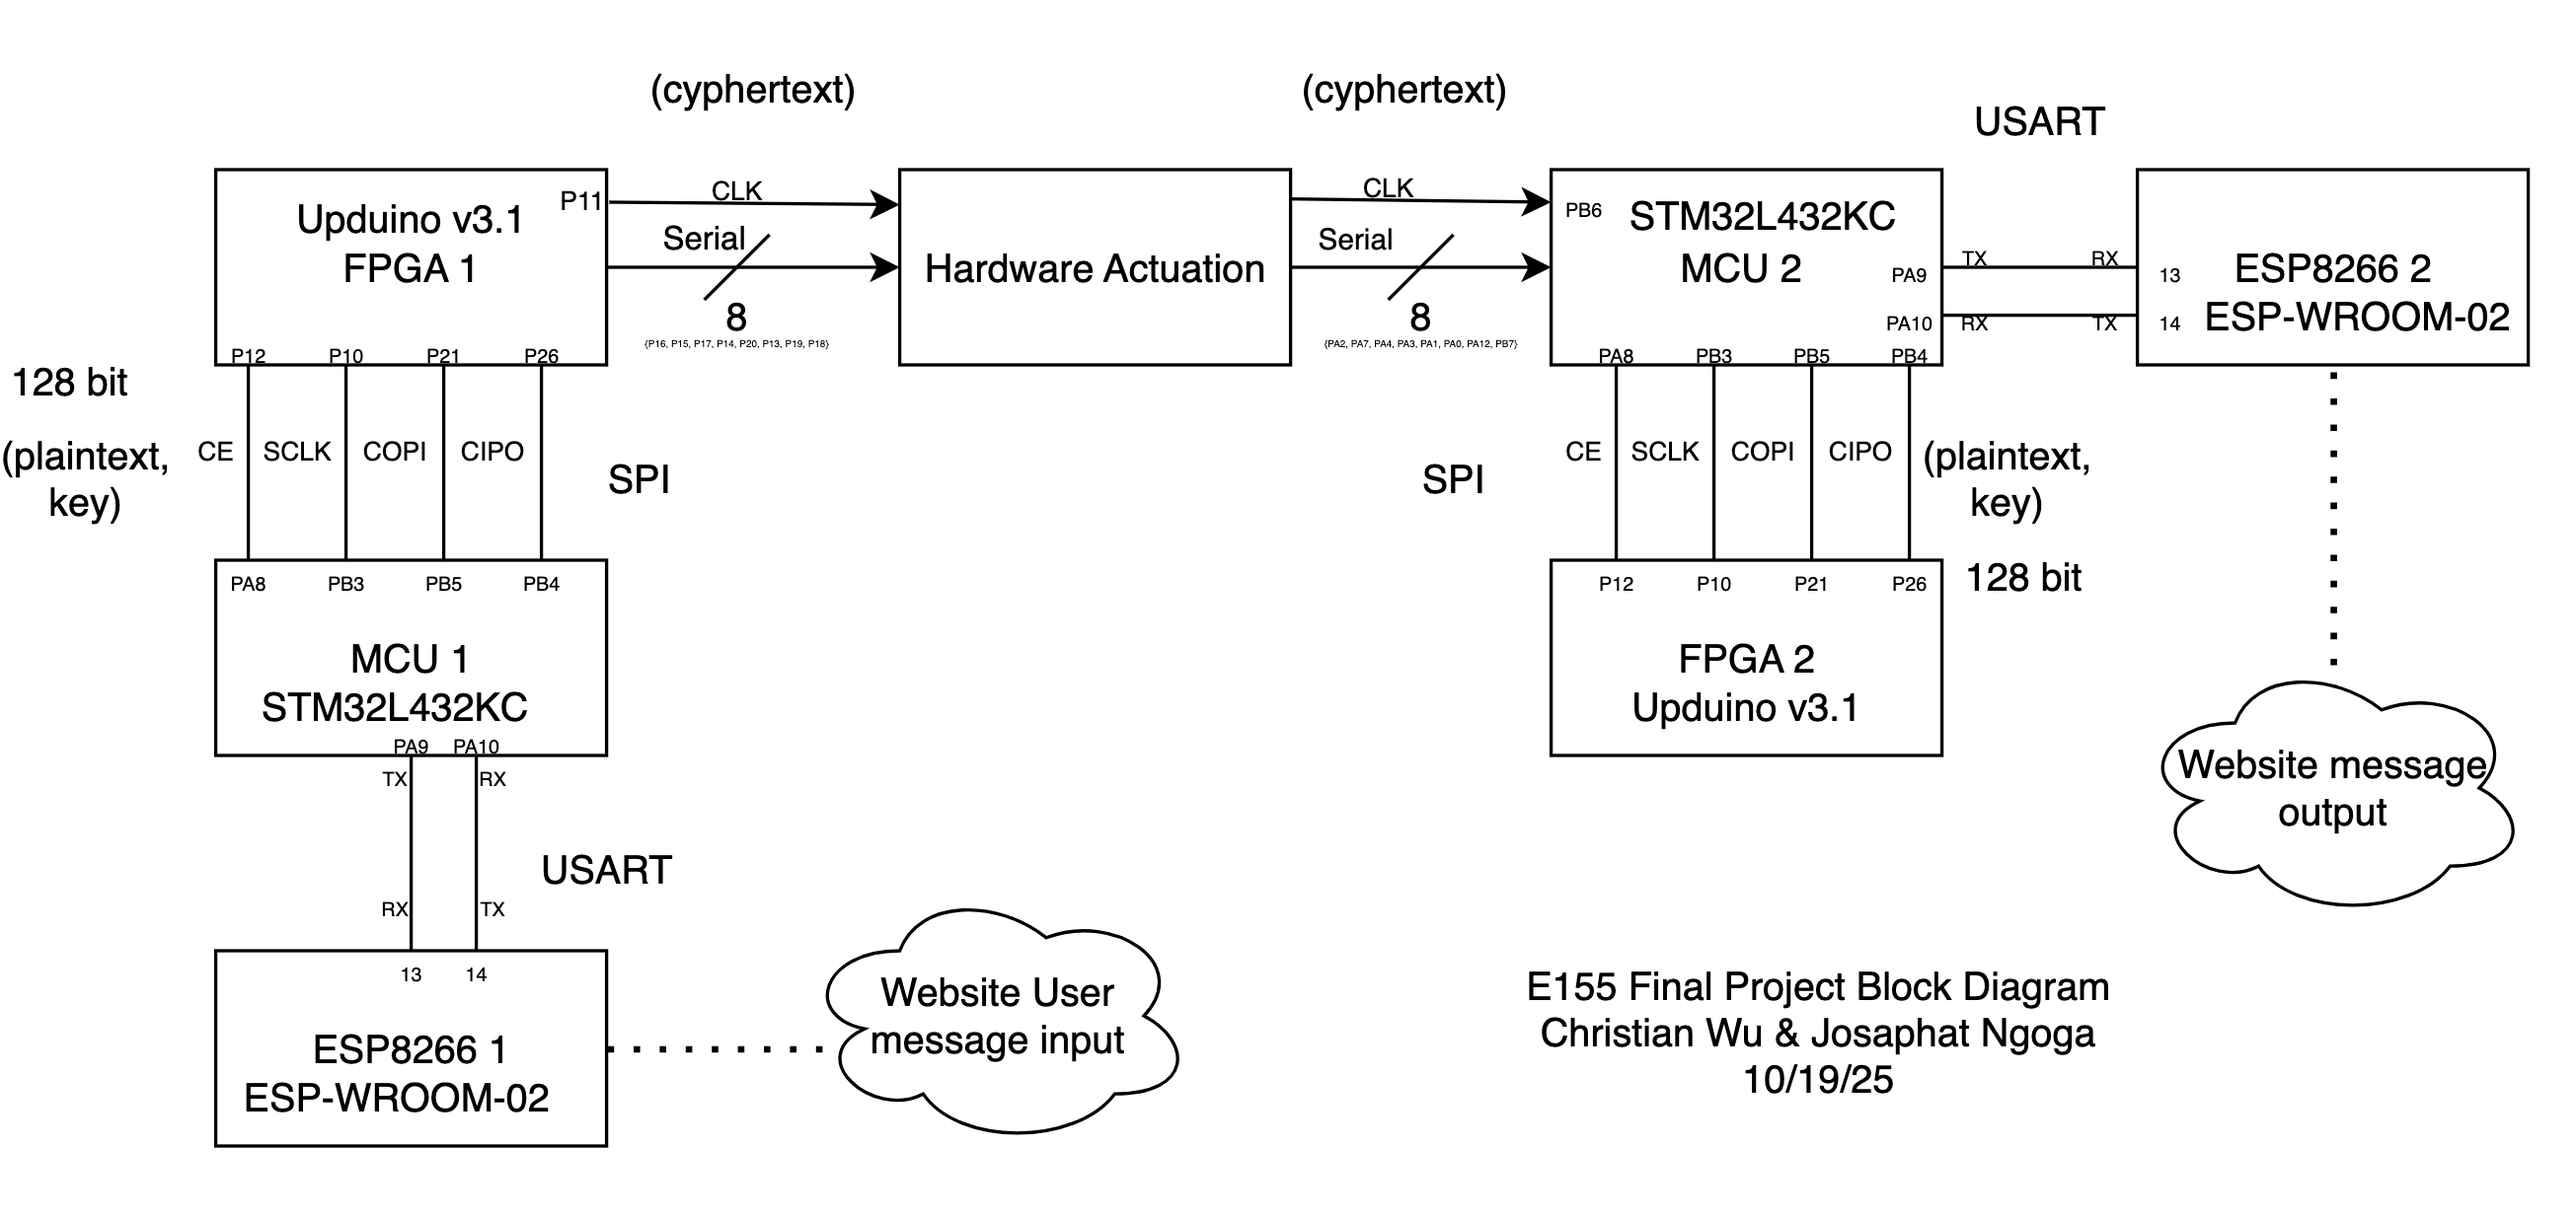
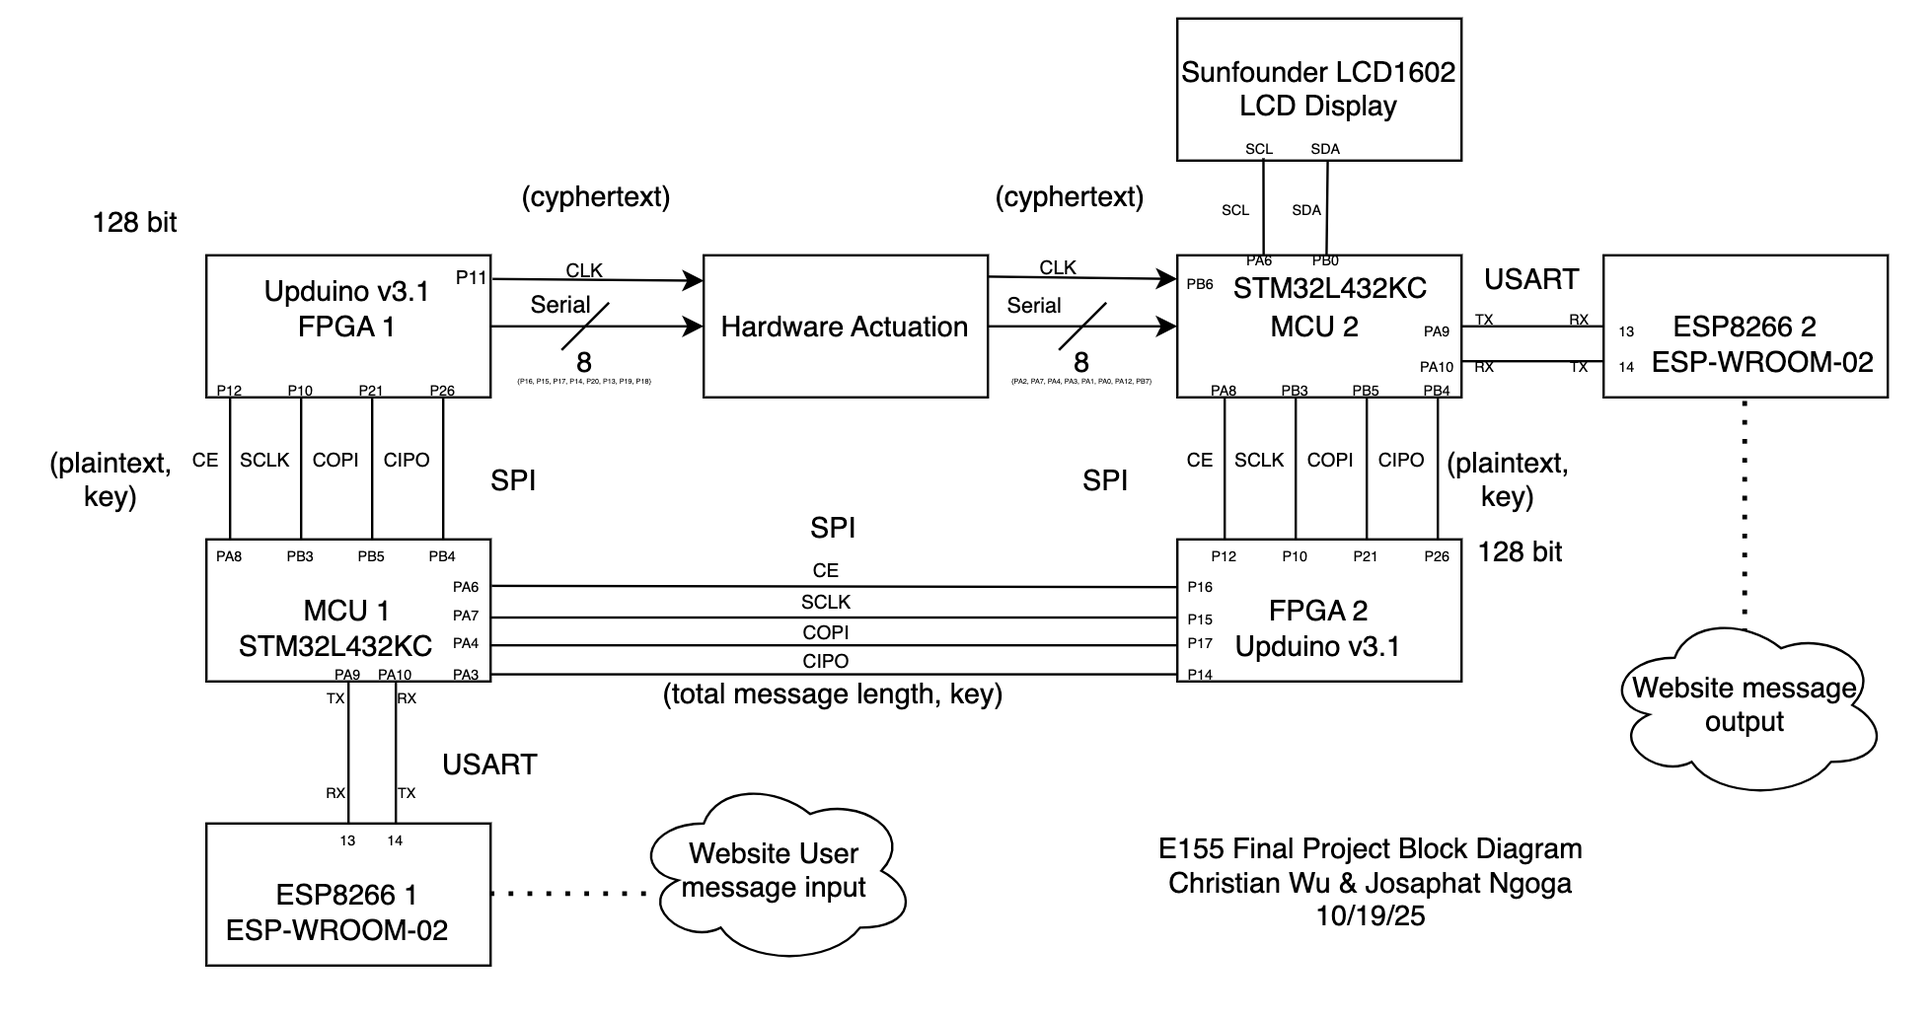
Built site for gh-pages

diff --git a/finalProject/proposal/proposal.html b/finalProject/proposal/proposal.html
@@ -179,6 +179,7 @@ ul.task-list li input[type="checkbox"] {
   <li><a href="#fpga-resource-usage" id="toc-fpga-resource-usage" class="nav-link" data-scroll-target="#fpga-resource-usage">FPGA Resource Usage</a></li>
   </ul></li>
   <li><a href="#mcu-use" id="toc-mcu-use" class="nav-link" data-scroll-target="#mcu-use">MCU Use</a></li>
+  <li><a href="#non-trivial-hardware" id="toc-non-trivial-hardware" class="nav-link" data-scroll-target="#non-trivial-hardware">Non Trivial Hardware</a></li>
   <li><a href="#bill-of-materials" id="toc-bill-of-materials" class="nav-link" data-scroll-target="#bill-of-materials">Bill of Materials</a></li>
   <li><a href="#project-performance-specs" id="toc-project-performance-specs" class="nav-link" data-scroll-target="#project-performance-specs">Project Performance Specs</a></li>
   <li><a href="#project-timeline-task-allocation" id="toc-project-timeline-task-allocation" class="nav-link" data-scroll-target="#project-timeline-task-allocation">Project Timeline &amp; Task Allocation</a></li>
@@ -214,11 +215,9 @@ ul.task-list li input[type="checkbox"] {
 </section>
 <section id="fpga-use" class="level2">
 <h2 class="anchored" data-anchor-id="fpga-use">FPGA Use</h2>
-<p>The project uses two FPGAs, one on each side of the communication system. Each FPGA handles AES-128 encryption and decryption while interfacing directly with the mechanical bus. The sender FPGA receives plaintext and encryption key from the MCU, encrypts it, and performs bit-banging to maintain synchronization and ensure that a complete byte is transmitted every cycle. The receiver FPGA reads each incoming byte, decrypts it, and sends the plaintext to the MCU for display. It also manages switch input synchronization through debouncing to ensure clean and reliable signal detection. <strong>The new FPGA functions are highlighted below:</strong></p>
+<p>The project uses two FPGAs, one on each side of the communication system. Each FPGA handles AES-128 encryption and decryption while interfacing directly with the mechanical bus. The sender FPGA receives plaintext and encryption key from the MCU, encrypts it, and performs bit-banging to maintain synchronization and ensure that a complete byte is transmitted every cycle. The receiver FPGA reads each incoming byte, decrypts it, and sends the plaintext to the MCU for display. It also manages switch input synchronization through debouncing to ensure clean and reliable signal detection. <strong>The new FPGA function is highlighted below:</strong></p>
 <ul>
-<li>AES-128 decryption according to the NIST FIPS 197 standard</li>
-<li>Bit-banging/hardware synchronization</li>
-<li>data transfer indicators (Mainly LEDs showing channel status, i.e, HIGH/LOW)</li>
+<li>Using SPRAM to store encrypted ciphertext, and then pulling from the SPRAM 8 bits at a time to transfer via hardware actuation.</li>
 </ul>
 <p>The FPGAs communicate with the MCUs through SPI and interface with the mechanical bus using a custom serial bit driver that handles all data transmission and input reception. The transfer rate of the bits will be set depending on how we synchonize the receiving end. Bit transfer is handled by the clock, and we can change the clock speed to achieve synchronization, and this will in turn affect how fast we can send bits across.</p>
 <section id="fpga-resource-usage" class="level3">
@@ -228,21 +227,14 @@ ul.task-list li input[type="checkbox"] {
 </section>
 <section id="mcu-use" class="level2">
 <h2 class="anchored" data-anchor-id="mcu-use">MCU Use</h2>
-<p>The project uses two MCUs, one for each side of the system. They serve as the main interface for web communication and text encoding, converting messages into byte data that the FPGA can process. MCUs are ideal for this role due to their large on-board memory, which allows them to handle larger text data. Each MCU also participates in the encryption and decryption process, managing the exchange of keys and ciphertext/plaintext with the FPGAs. Additionally, the MCUs will control all system indicators and feedback mechanisms that help monitor the efficiency of the system. <strong>The new MCU functions are shown below:</strong></p>
+<p>The project uses two MCUs, one for each side of the system. They serve as the main interface for web communication and text encoding, converting messages into byte data that the FPGA can process. MCUs are ideal for this role due to their large on-board memory, which allows them to handle larger text data. Each MCU also participates in the encryption and decryption process, managing the exchange of keys and ciphertext/plaintext with the FPGAs. Additionally, the MCUs will control all system indicators and feedback mechanisms that help monitor the efficiency of the system. <strong>The new MCU function is shown below:</strong></p>
 <ul>
-<li>ASCII encoding/decoding</li>
-<li>Feedback &amp; Monitoring:
-<ul>
-<li>Validate if data received matches the intended message (transferred message)</li>
-<li>Track clock (clk) speed as well as data transfer speed.</li>
-<li>Determine progress of data transfer</li>
-</ul></li>
-<li>Fault report and handling:
-<ul>
-<li>stop transfer and report when received data ≠ sent data</li>
-<li>System kill switch (master stop)</li>
-</ul></li>
+<li>Using the TRNG to randomly generate keys for encryption. We will send these random keys to the receiver via SPI so that it can decrypt the message correctly.</li>
 </ul>
+</section>
+<section id="non-trivial-hardware" class="level2">
+<h2 class="anchored" data-anchor-id="non-trivial-hardware">Non Trivial Hardware</h2>
+<p>This project will implement the use of a LCD Display, which will track the current progress of the transaction and display to the user. When the MCU first gets the message from the user, it will send via SPI the total message length and key to the receiver FPGA. The receiver FPGA will send the total message length to the receiver MCU. So as data transfer is occurring via hardware actuation, the MCU can calculate what percentage of data has been transferred and display that on the LCD Display via I2C.</p>
 </section>
 <section id="bill-of-materials" class="level2">
 <h2 class="anchored" data-anchor-id="bill-of-materials">Bill of Materials</h2>
@@ -284,6 +276,14 @@ ul.task-list li input[type="checkbox"] {
 <td><a href="https://www.amazon.com/dp/B07X142VGC?psc=1&amp;ref_=cm_sw_r_cp_ud_ct_1PBFRK1N28CPX9EH90QX_2">Link</a></td>
 </tr>
 <tr class="even">
+<td>LCD Display with I2C Adapter</td>
+<td>LCD1602</td>
+<td>10</td>
+<td>SunFounder</td>
+<td>10.96</td>
+<td><a href="amazon.com/gp/product/B019K5X53O/ref=ox_sc_act_title_1?smid=ADHH624DX2Q66&amp;psc=1">Link</a></td>
+</tr>
+<tr class="odd">
 <td>FPGA</td>
 <td>Upduino v3.1</td>
 <td>2</td>
@@ -291,7 +291,7 @@ ul.task-list li input[type="checkbox"] {
 <td>Stockroom</td>
 <td>N/A</td>
 </tr>
-<tr class="odd">
+<tr class="even">
 <td>MCU</td>
 <td>STM32L432KC</td>
 <td>2</td>
@@ -299,7 +299,7 @@ ul.task-list li input[type="checkbox"] {
 <td>Stockroom</td>
 <td>N/A</td>
 </tr>
-<tr class="even">
+<tr class="odd">
 <td>Metal Rods</td>
 <td>N/A</td>
 <td>9</td>
@@ -307,7 +307,7 @@ ul.task-list li input[type="checkbox"] {
 <td>Stockroom</td>
 <td>N/A</td>
 </tr>
-<tr class="odd">
+<tr class="even">
 <td>ESP8266</td>
 <td>ESP-WROOM-02</td>
 <td>2</td>
@@ -315,12 +315,12 @@ ul.task-list li input[type="checkbox"] {
 <td>Stockroom</td>
 <td>N/A</td>
 </tr>
-<tr class="even">
+<tr class="odd">
 <td><strong>Total</strong></td>
 <td></td>
 <td></td>
 <td></td>
-<td><strong>$56.27</strong></td>
+<td><strong>$67.23</strong></td>
 <td></td>
 </tr>
 </tbody>
@@ -340,18 +340,10 @@ ul.task-list li input[type="checkbox"] {
 <li><label><input type="checkbox">MCU correctly encodes &amp; decodes the received word in ASCII</label></li>
 <li><label><input type="checkbox">MCU-FPGA encryption/decryption modules communicate and perform as expected</label></li>
 <li><label><input type="checkbox">9 mechanical channels properly synchronized between the two sides.</label></li>
-<li><label><input type="checkbox">Status and progress LEDs respond as expected</label></li>
+<li><label><input type="checkbox">Status and progress LCD respond as expected</label></li>
 <li><label><input type="checkbox">System stops immediately if received data is different from sent data.</label></li>
 <li><label><input type="checkbox">All 8 data buses are read synchronously</label></li>
-<li><label><input type="checkbox">Able to receive &amp; display at least 3 letters in a second i.e minimum 24bps transfer speed<br>
-</label></li>
-</ul></li>
-<li><strong>Strech performance specs:</strong>
-<ul class="task-list">
-<li><label><input type="checkbox">Able to send multiple words over</label></li>
-<li><label><input type="checkbox">Able to send words from a .txt file uploaded from the web app</label></li>
-<li><label><input type="checkbox">Faster transfer speeds (around 8 letters in a second, 64bps)</label></li>
-<li><label><input type="checkbox">Emoji handling</label></li>
+<li><label><input type="checkbox">Able to receive &amp; display at least 3 letters in a second i.e minimum 24bps transfer speed</label></li>
 </ul></li>
 </ul>
 </section>
@@ -381,14 +373,25 @@ Figure&nbsp;1: Main Block Diagram.
 </figcaption>
 </figure>
 </div>
-<p>The actuation block requires different modules and setup necessary for it to work as expected. The relay module specifications show the mentioned NO and NC connection modes. <a href="#fig-actBlock" class="quarto-xref">Figure&nbsp;2</a> below shows the signals as well as voltage and circuit configurations:</p>
+<p>Below is also a flowchart of how messages go from the user to receiver through our project in <a href="#fig-message" class="quarto-xref">Figure&nbsp;2</a>:</p>
+<div id="fig-message" class="lightbox quarto-float quarto-figure quarto-figure-center anchored">
+<figure class="quarto-float quarto-float-fig figure">
+<div aria-describedby="fig-message-caption-0ceaefa1-69ba-4598-a22c-09a6ac19f8ca">
+<a href="docs/message.png" class="lightbox" data-gallery="quarto-lightbox-gallery-2" title="Figure&nbsp;2: Message Flowchart"><img src="docs/message.png" class="img-fluid figure-img"></a>
+</div>
+<figcaption class="quarto-float-caption-bottom quarto-float-caption quarto-float-fig" id="fig-message-caption-0ceaefa1-69ba-4598-a22c-09a6ac19f8ca">
+Figure&nbsp;2: Message Flowchart
+</figcaption>
+</figure>
+</div>
+<p>The actuation block requires different modules and setup necessary for it to work as expected. The relay module specifications show the mentioned NO and NC connection modes. <a href="#fig-actBlock" class="quarto-xref">Figure&nbsp;3</a> below shows the signals as well as voltage and circuit configurations:</p>
 <div id="fig-actBlock" class="lightbox quarto-float quarto-figure quarto-figure-center anchored">
 <figure class="quarto-float quarto-float-fig figure">
 <div aria-describedby="fig-actBlock-caption-0ceaefa1-69ba-4598-a22c-09a6ac19f8ca">
-<a href="docs/actuationBlock.png" class="lightbox" data-gallery="quarto-lightbox-gallery-2" title="Figure&nbsp;2: Hardware Actuation Block Diagram"><img src="docs/actuationBlock.png" class="img-fluid figure-img"></a>
+<a href="docs/actuationBlock.png" class="lightbox" data-gallery="quarto-lightbox-gallery-3" title="Figure&nbsp;3: Hardware Actuation Block Diagram"><img src="docs/actuationBlock.png" class="img-fluid figure-img"></a>
 </div>
 <figcaption class="quarto-float-caption-bottom quarto-float-caption quarto-float-fig" id="fig-actBlock-caption-0ceaefa1-69ba-4598-a22c-09a6ac19f8ca">
-Figure&nbsp;2: Hardware Actuation Block Diagram
+Figure&nbsp;3: Hardware Actuation Block Diagram
 </figcaption>
 </figure>
 </div>
@@ -398,7 +401,7 @@ Figure&nbsp;2: Hardware Actuation Block Diagram
 <img src="docs/actuationCircuit.png" class="img-fluid figure-img">
 </div>
 <figcaption class="quarto-float-caption-bottom quarto-float-caption quarto-float-fig" id="fig-actDiagram-caption-0ceaefa1-69ba-4598-a22c-09a6ac19f8ca">
-Figure&nbsp;3: Hardware Actuation 3D Visualization
+Figure&nbsp;4: Hardware Actuation 3D Visualization
 </figcaption>
 </figure>
 </div>
@@ -409,7 +412,7 @@ Figure&nbsp;3: Hardware Actuation 3D Visualization
 <img src="docs/contingency.png" class="img-fluid figure-img">
 </div>
 <figcaption class="quarto-float-caption-bottom quarto-float-caption quarto-float-fig" id="fig-fallback-caption-0ceaefa1-69ba-4598-a22c-09a6ac19f8ca">
-Figure&nbsp;4: Fallback Plan
+Figure&nbsp;5: Fallback Plan
 </figcaption>
 </figure>
 </div>
